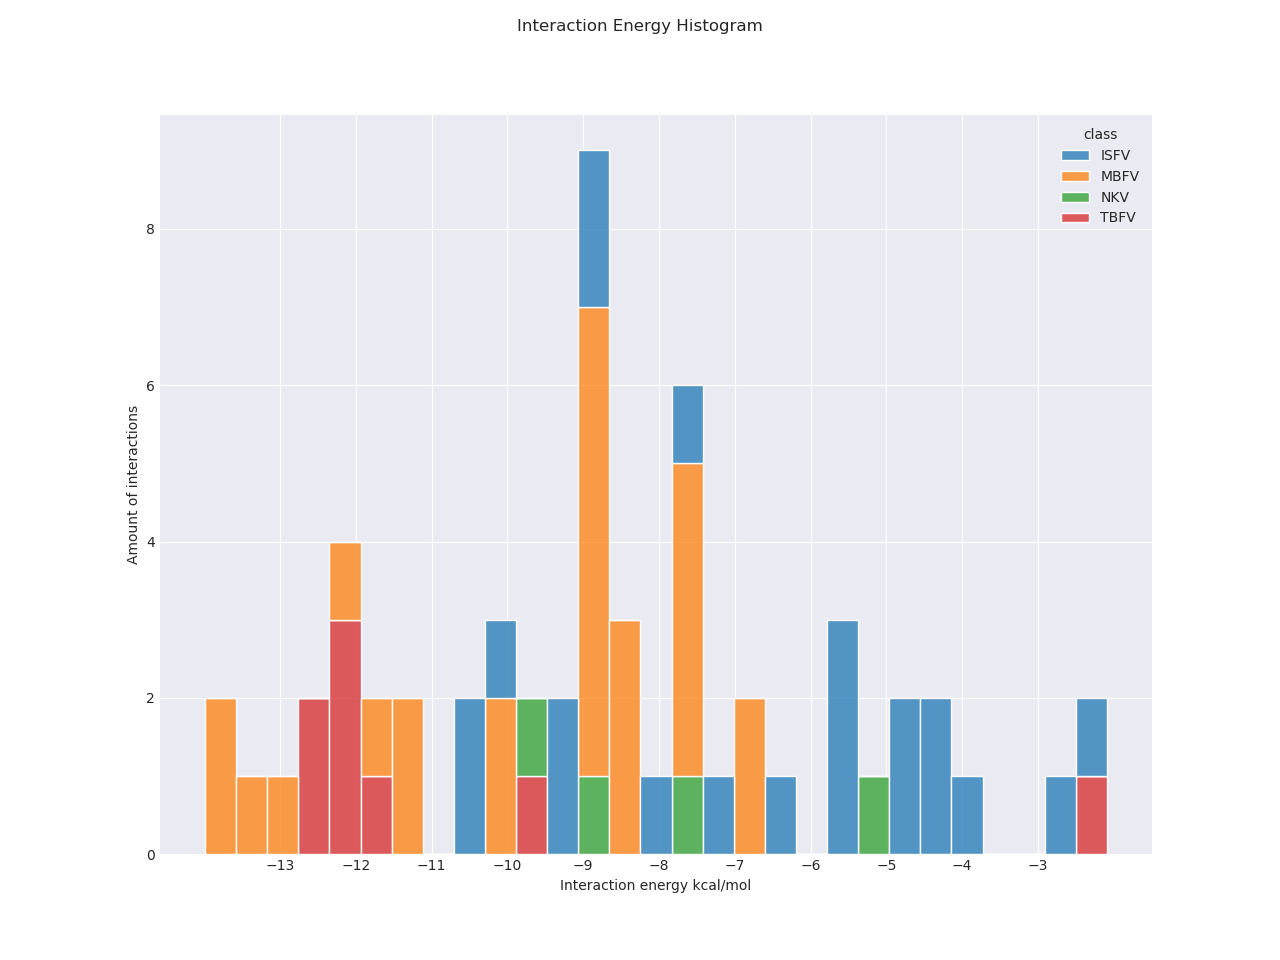
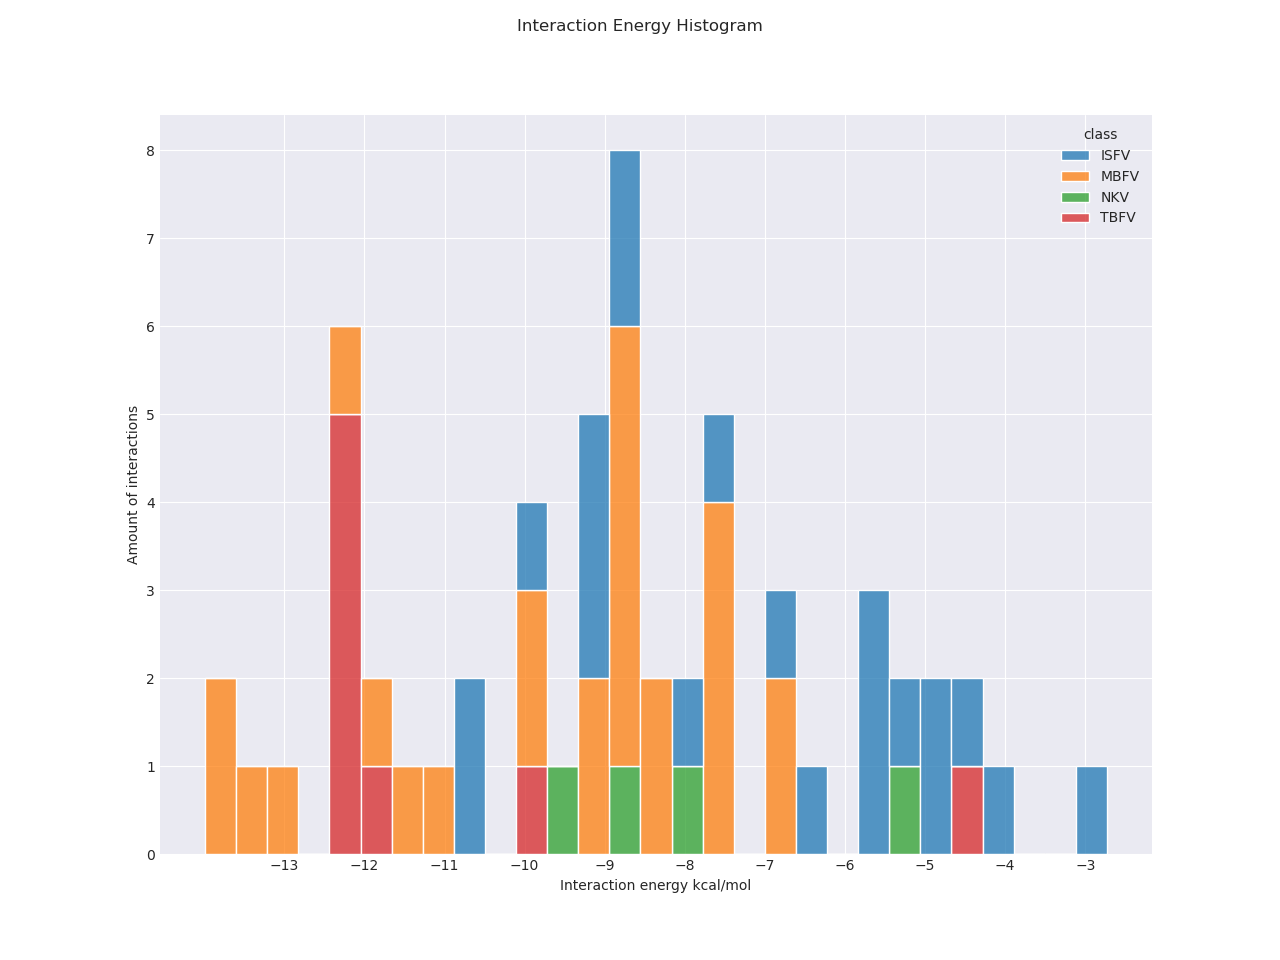
Updating the lineplot like in main
I hope this is correct why is it saying the "old" is looking like the one from main?

Changed region(s): [[0.1875, 0.1562, 0.875, 0.9062], [0.25, 0.3438, 0.2812, 0.6562], [0.1562, 0.6875, 0.1875, 0.75]]

diff --git a/main.py b/main.py
@@ -22,7 +22,7 @@ outNumber = 4 # Allow n-1 subops, must be at least 1
 ## IntaRNA specific:
 static_d = {"energyVRNA": "Data/rna_andronescu2007.par",
             "intLenMax": 20,
-            "seedBP": 7,
+            "seedBP": 5,
             "accW": 100,
             "accL": 100,
             }
